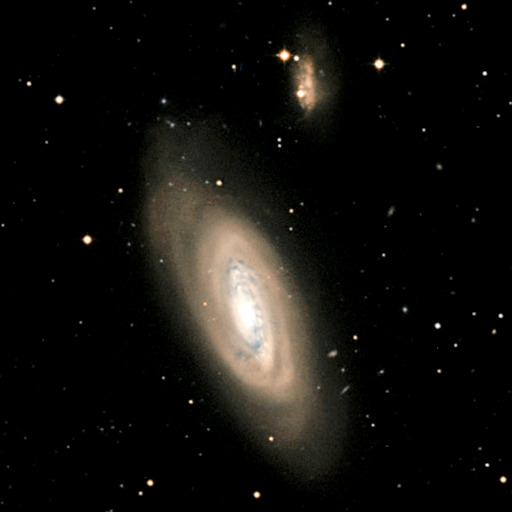
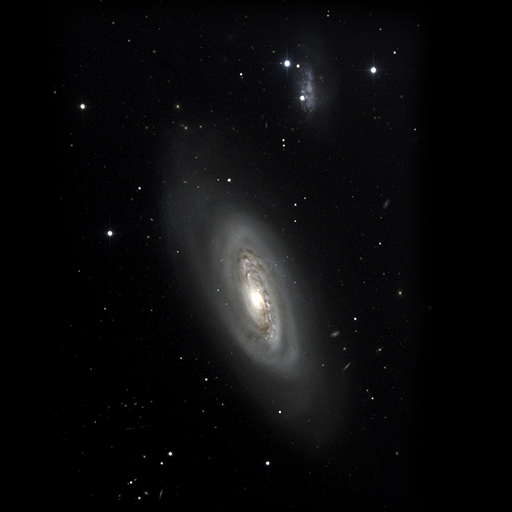
Update m90

diff --git a/CREDITS.md b/CREDITS.md
@@ -414,7 +414,7 @@
 	4.33 Images of PGC6830, PGC29653, UGC5373 from Lowell Observatory
 	     http://www2.lowell.edu/
 	     License: public domain
-	4.34 Images of M59, M60, M89, M90, IC2177, IC2220, IC2631, NGC1433,
+	4.34 Images of M59, M60, M89, IC2177, IC2220, IC2631, NGC1433,
 	     NGC2442, NGC3572, PGC10074,
 	     RCW32, RCW38, RCW49, Fornax Cluster, Virgo Cluster
 	     from ESO/Digitized Sky Survey 2
@@ -732,6 +732,11 @@
 	      License: Creative Commons Attribution-Share Alike 4.0 International
 	4.114 Images of Sh2-82
 	      from T.A. Rector (University of Alaska Anchorage) and H. Schweiker (WIYN and NOIRLab/NSF/AURA)
+	      https://noirlab.edu/
+	      rework by Sun Shuwei
+	      License: Creative Commons Attribution 4.0 International
+	4.115 Images of M90
+	      from NOIRLab/NSF/AURA
 	      https://noirlab.edu/
 	      rework by Sun Shuwei
 	      License: Creative Commons Attribution 4.0 International
